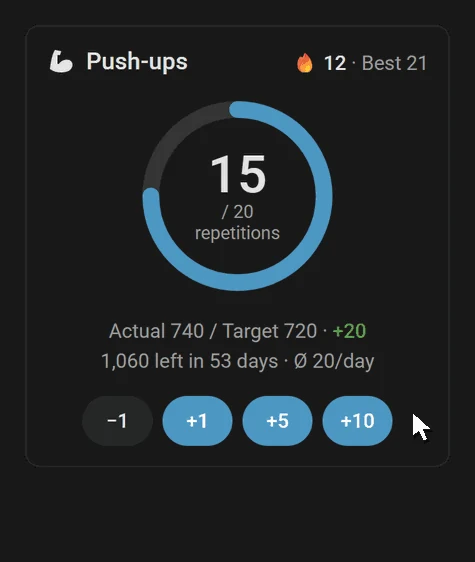
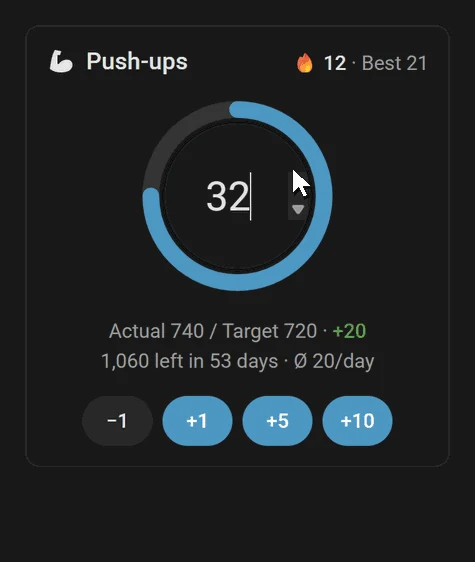
Export action stills without the cursor
The stills now show what each alt text describes, and they are what the pause
control stops on. Three frames of one state are merged to remove the cursor.
Add a 15 of 20 card for the home ring.

Changed region(s): [[0.4126, 0.2722, 0.5895, 0.4235], [0.8547, 0.726, 0.9137, 0.7865], [0.6189, 0.3025, 0.6484, 0.3932]]

diff --git a/scripts/prepare_images.py b/scripts/prepare_images.py
@@ -20,7 +20,7 @@ from __future__ import annotations
 import argparse
 from pathlib import Path
 
-from PIL import Image, ImageDraw, ImageFont, ImageSequence
+from PIL import Image, ImageChops, ImageDraw, ImageFont, ImageSequence
 
 ROOT = Path(__file__).resolve().parent.parent
 IMG = ROOT / "assets" / "img"
@@ -34,6 +34,17 @@ DC_ICON = (113, 124, 352)
 # Crop boxes inside the built 1600 px screenshots: (left, top, right, bottom).
 EFM_FLOW = (339, 122, 1261, 704)  # the "Energy flow" card
 DC_CARD_ONE = (26, 26, 523, 543)  # the push-ups card
+
+# Frames that show the action the alt text of each animation describes.
+STILLS = (
+    ("efm", "periods", (69, 73, 77)),  # 30 days selected
+    ("efm", "drag", (31,)),  # the coffee machine on its way to Office, targets lit
+    ("efm", "tabs", (21, 26, 30)),  # the water tab
+    ("dc", "buttons", (25, 27, 32)),  # +5 reached today's goal, with Undo in the message
+    ("dc", "input", (26,)),  # the input with 32 typed
+    ("dc", "catch-up", (38, 42, 46)),  # Deficit made up
+)
+DC_START = (0, 9, 47)  # the card before anything is tapped: 15 of 20, like the ring around it
 
 
 def webp(src: Path, dst: Path, width: int | None = None, quality: int = 82) -> None:
@@ -69,9 +80,21 @@ def crop_webp(src: Path, dst: Path, box: tuple[int, int, int, int]) -> None:
     print(f"{dst.relative_to(ROOT)}  {im.size}  {dst.stat().st_size // 1024} KB")
 
 
-def still_webp(src: Path, dst: Path) -> None:
-    """The first frame of an animation, for visitors who prefer reduced motion."""
-    im = Image.open(src).convert("RGB")
+def still_webp(src: Path, dst: Path, frames: tuple[int, ...]) -> None:
+    """A still of an animation, for reduced motion and for the pause control.
+
+    Three frames of one state are merged per pixel (the median), which removes the
+    mouse cursor because it is somewhere else in each of them.
+    """
+    anim = Image.open(src)
+    shots = []
+    for number in frames:
+        anim.seek(number)
+        shots.append(anim.convert("RGB"))
+    im = shots[0]
+    if len(shots) == 3:
+        a, b, c = shots
+        im = ImageChops.lighter(ImageChops.darker(a, b), ImageChops.darker(ImageChops.lighter(a, b), c))
     im.save(dst, "WEBP", quality=88, method=6)
     print(f"{dst.relative_to(ROOT)}  {im.size}  {dst.stat().st_size // 1024} KB")
 
@@ -81,10 +104,9 @@ def derived() -> None:
     for theme in ("light", "dark"):
         crop_webp(IMG / "efm" / f"diagram-{theme}.webp", IMG / "efm" / f"flow-{theme}.webp", EFM_FLOW)
         crop_webp(IMG / "dc" / f"hero-{theme}.webp", IMG / "dc" / f"card-one-{theme}.webp", DC_CARD_ONE)
-    for name in ("periods", "drag", "tabs"):
-        still_webp(IMG / "efm" / f"{name}.webp", IMG / "efm" / f"{name}-still.webp")
-    for name in ("buttons", "input", "catch-up"):
-        still_webp(IMG / "dc" / f"{name}.webp", IMG / "dc" / f"{name}-still.webp")
+    for folder, name, frames in STILLS:
+        still_webp(IMG / folder / f"{name}.webp", IMG / folder / f"{name}-still.webp", frames)
+    still_webp(IMG / "dc" / "buttons.webp", IMG / "dc" / "buttons-start.webp", DC_START)
 
 
 def rounded(im: Image.Image, radius: int) -> Image.Image:
